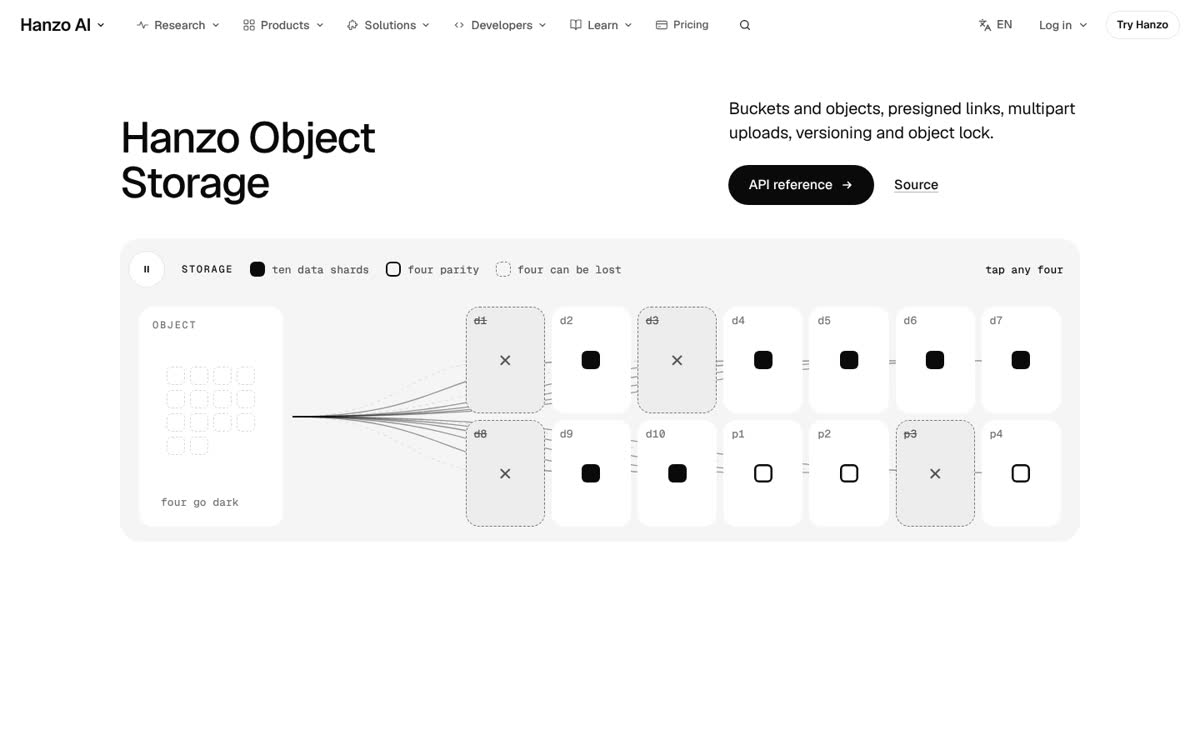
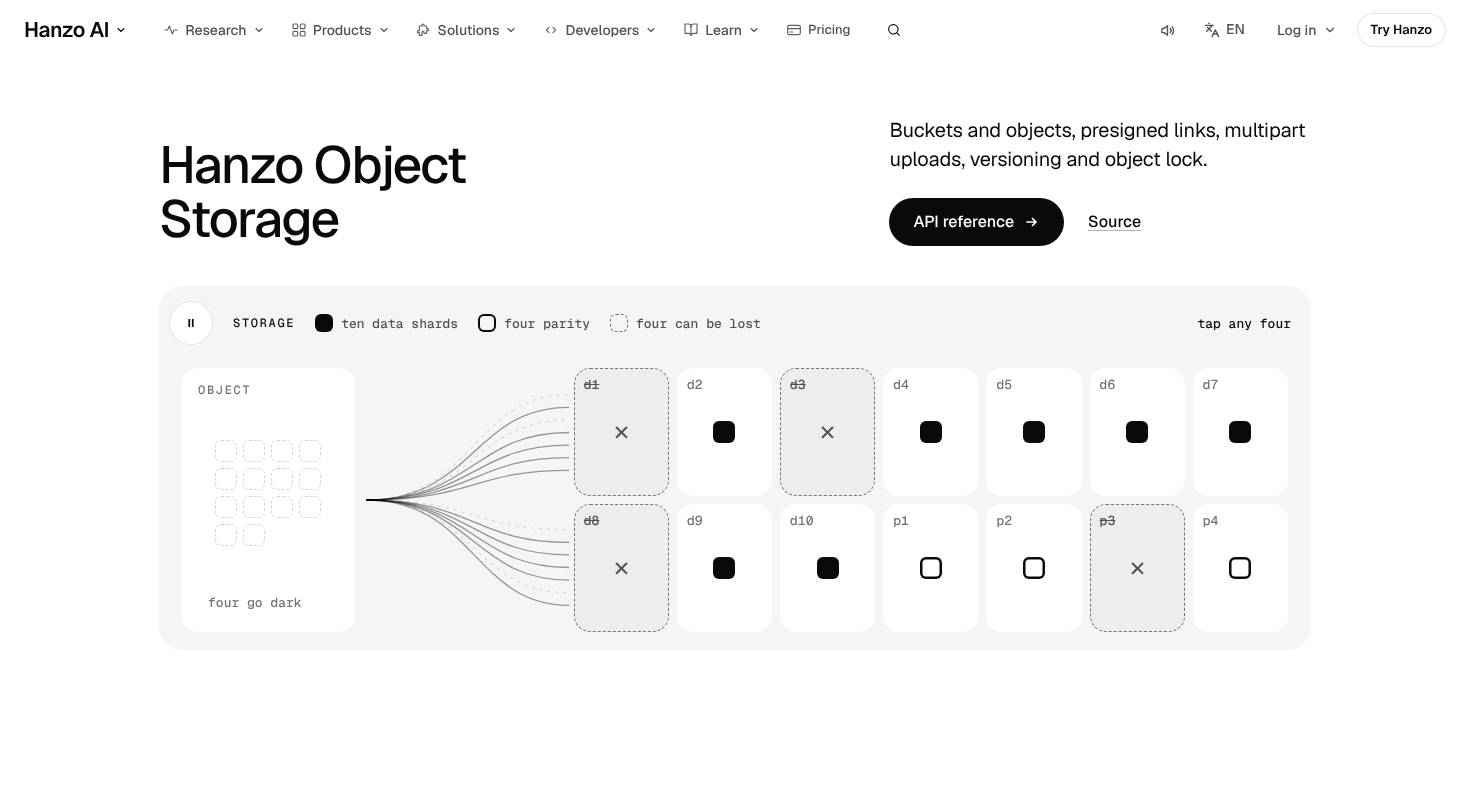
s3: one black-room moment (4 can be lost, it still reads), phone object row stops shifting (CLS 0); Ready
Claude-Session: https://claude.ai/code/session_01P5YBdwnSSVASfNEEi92hQ4

diff --git a/components/pages/cloud/S3.css b/components/pages/cloud/S3.css
@@ -108,12 +108,16 @@ html.js .s3-strip { animation: s3-up .3s var(--lx-ease) both; }
 @keyframes s3-no { 25% { transform: translateX(-3px); } 75% { transform: translateX(3px); } }
 @media (max-width: 899px) { .s3-read { white-space: nowrap; } }
 .s3-read { max-width: 100%; }
-/* the black room: one figure is the moment, the other three rest at section size */
-.s3-spec .lx-spec-row:not(:first-child) .lx-spec-v, .s3-spec > *:not(:first-child) .lx-spec-v { font-size: 26px !important; }
+/* the black room: one figure is the moment — "4 can be lost, and it still reads", the page's whole promise, at 64 in a
+   wider column — and the other three rest at section size beside it (the hero already counted ten and four) */
+.s3-spec .lx-spec-row:not(:nth-child(3)) .lx-spec-v { font-size: 26px !important; }
+.s3-spec .lx-spec-row:nth-child(3) .lx-spec-v { font-size: 64px !important; }
+.s3-spec .lx-spec-row:nth-child(3) .lx-spec-l { color: #fafafa; }
+@media (min-width: 900px) { .s3-spec .lx-spec-rows { grid-template-columns: 1fr 1fr 1.7fr 1fr; } }
 @media (prefers-reduced-motion: reduce) { .s3-cells i.x, .s3-cells b, .s3-vol.no { animation: none; } }
 
-/* the black room: the figures at their resting 64px (the room's one big thing), then the prompt */
-.s3-room { padding: clamp(72px, 11vw, 188px) 0; }
+/* the black room: the figures (one at 64, the room's one big thing), then the prompt */
+.s3-room { padding: clamp(56px, 7vw, 120px) 0; }
 .s3-spec { margin-bottom: clamp(72px, 8vw, 116px); }
 .s3 .cf-paste.dark { grid-template-columns: minmax(0, 5fr) minmax(0, 8fr); gap: clamp(24px, 4vw, 56px); }
 .s3 .cf-paste-t { font-size: 26px; font-weight: 497; letter-spacing: -.02em; line-height: 1.15; }
@@ -143,10 +147,11 @@ html.js .s3-strip { animation: s3-up .3s var(--lx-ease) both; }
   .s3-mine { margin-left: 0; }
   .s3-field { height: 330px; }
   .s3-fan { display: none; }
-  .s3-obj { left: 12px; right: 12px; top: 12px; width: auto; min-width: 0; height: 104px; padding: 12px 14px; display: grid; grid-template-columns: auto 1fr; grid-template-rows: auto 1fr; gap: 6px 12px; border-radius: 12px; }
+  .s3-obj { left: 12px; right: 12px; top: 12px; width: auto; min-width: 0; height: 104px; padding: 12px 14px; display: grid; grid-template-columns: auto minmax(0, 1fr); grid-template-rows: auto 1fr; gap: 6px 12px; border-radius: 12px; }
   .s3-obj .s3-k { grid-column: 1; }
-  .s3-file { grid-column: 2; grid-row: 1 / 3; grid-template-columns: repeat(7, 18px); grid-auto-rows: 18px; gap: 5px; justify-content: end; }
-  .s3-read { grid-column: 1; align-self: end; }
+  /* the shards sit top-right and the readout has the whole bottom row: a longer readout never moves the shards (CLS) */
+  .s3-file { grid-column: 2; grid-row: 1; align-self: start; grid-template-columns: repeat(7, 18px); grid-auto-rows: 18px; gap: 5px; justify-content: end; }
+  .s3-read { grid-column: 1 / -1; grid-row: 2; align-self: end; }
   .s3-shard, .s3-slot, .s3-ghost { width: 18px; height: 18px; border-radius: 6px; }
   .s3-vols { left: 12px; right: 12px; top: 128px; height: 190px; grid-template-columns: repeat(5, minmax(0, 1fr)); grid-template-rows: repeat(3, 1fr); gap: 6px; }
   .s3-vol { border-radius: 12px; }

diff --git a/components/pages/cloud/S3.jsx b/components/pages/cloud/S3.jsx
@@ -1,6 +1,6 @@
 'use client';
 /* Object Storage, Cloud 3 launch page, round 3 to docs/MASTER.md (the only brief).
-   V2: Title first on the 8/5 split with the lede and ask beside it, then the object on one flat quiet stage: it breaks into fourteen shards that fly to fourteen volume servers, survives four going dark and reads back from the ten left (kept as approved motion); then the peel: the binary's four roles lift apart into floating layers in 3D beside the four facts, and close again; one black room where the figures cut in beside the agent prompt; deck greys, flat surfaces, no springs.
+   V2: 8/10 Title first on the 8/5 split with the lede and ask beside it, then the object on one flat quiet stage: it breaks into fourteen shards that fly to fourteen volume servers, survives four going dark and reads back from the ten left (phones: shards top-right, readout on its own row, nothing shifts); then the peel: the binary's four roles lift apart into floating layers in 3D beside the four facts, and close again; one black room where "4 can be lost, and it still reads" is the one big figure beside three small ones, then the agent prompt; deck greys, flat surfaces, no springs.
 // Signature: peel — one binary lifts apart into its four floating roles in 3D (HTTP gateway, filer, master, volume servers), walks KMS keys, ten data and four parity shards (four dark, still reads) and one binary protocol on those layers, then closes back into one binary
 // Beyond: lose four yourself — in the hero, tap any volume servers dark, up to the four Hanzo says can be lost, and watch the object keep reading
    Persona: Developer storing objects (buckets from code).

diff --git a/docs/coverage/s3.md b/docs/coverage/s3.md
@@ -57,7 +57,7 @@ Done here: 10, 4, 4 and 1 are Hanzo's own counts, each with its words beside it 
 - [x] Tables, FAQ, tabs and code use the kit parts (n/a for tables, FAQ and tabs: none; code is Frame's Paste)
 - [x] `python3 scripts/parity.py /s3`: 0 missing
 
-Done here: Parity 28/28 text, 3/3 links. Sizes: h1 52, chapter intro 44, chapter titles 32, role names 21, the black room's figures 64 (its one big thing), lede 20, body 16, captions 13; 12px only for Zen Mono capitals. The "01 / 04" counts sit under each chapter title.
+Done here: Parity 28/28 text, 3/3 links. Sizes: h1 52, "An object, kept" 44, fact titles in the peel list, role names 21, the black room's one figure at 64 ("4 can be lost, and it still reads", in a wider column; the other three at 26), lede 20, body 16, captions 13; 12px only for Zen Mono capitals. The "01 / 04" counts sit under each fact title.
 
 ## 7. Visual design system
 - [x] `python3 scripts/taste.py` passes; no literal hex outside tokens (deck values only)
@@ -155,6 +155,6 @@ Done here: The stage's own states are designed: whole, sharded, four dark, still
 - [x] `data-cta` on every primary; events only through `lib/track.js` (n/a for the file: not built yet; ids are in place)
 - [x] Nothing identifier-bearing before consent; no field value in a payload
 - [x] `V2: <score>/10 <one line>` in the page file's top comment
-- [x] Review read: `docs/review/s3.md` (7/10 on the walk before this build). In this build: the readout stays in its card, the fan lines no longer run under tiles, and the black room's four figures rest with one big (the first) and three at 26px. Not changed, as a decision: the ten/four figures stay in the hero legend and chapter 3 because they are Hanzo's copy, and the shared close (`LaunchClose`, owned by Cloud 3) keeps its order.
+- [x] Review read: `docs/review/s3.md` (7/10 on the walk before this build). In this build: the readout stays in its card, the fan lines no longer run under tiles, and the black room's four figures rest with one big and three at 26px. Slice D (7 Nov): the big one is now "4 can be lost, and it still reads" (the promise, not a count the hero already showed), the room's padding is trimmed, and on phones the object row keeps its shards top-right with the readout on its own row, so the phase readouts no longer move them (CLS 0.0195 → 0.0000 at 375 over 10 s; 0.0005 at 1470). Not changed, as a decision: the ten/four figures stay in the hero legend and chapter 3 because they are Hanzo's copy, and the shared close (`LaunchClose`, owned by Cloud 3) keeps its order.
 
-Done here: `s3.hero` and `s3.close` are set. Gallery: `docs/gallery/s3/d.mp4`, `d.jpg`, `p.jpg` (`film.cjs`, no errors). My own score is 8/10; the critic's verdict decides.
+Done here: `s3.hero` and `s3.close` are set. Gallery: `docs/gallery/s3/d.mp4`, `d.jpg`, `p.jpg`, `d-room.jpg` (refreshed 7 Nov). Marked Ready in `docs/review/s3.md` (slice D): readout held in its card at 1470/1100/375/320 over two runs, fan ends at the grid edge, 0 console errors, no sideways scroll.

diff --git a/docs/review/s3.md b/docs/review/s3.md
@@ -1,4 +1,5 @@
 # /s3 — James-eye review
+Ready: 2026-11-07, slice D — black room has one moment ("4 can be lost, and it still reads" at 64, rest at 26), phone object row no longer shifts per phase (CLS 0), readout/fan verified contained; peel gives the lower half its own object
 
 Verdict: 7/10
 First complaint: "The top is the best thing on the cloud pages, but look: two seconds in, 'ten data · four parity' falls out of its white box onto the grey, and little line ends poke out between every tile. Then I get ten and four again in the chapter, again in four big equal numbers on black, and the bottom half is the same pin, black room and close as /pubsub and /realtime."
